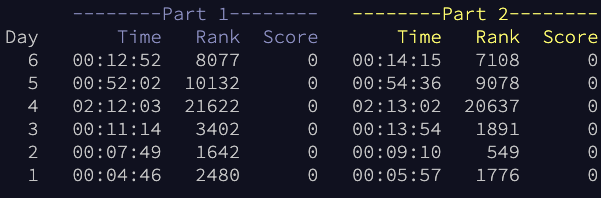
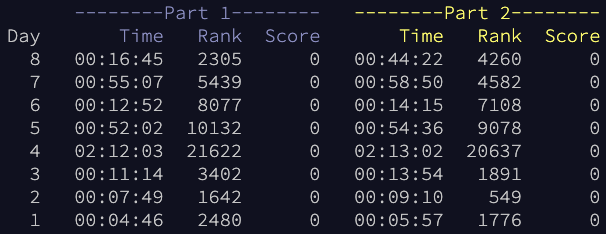
day 8

diff --git a/day07/day7.js b/day07/day7.js
@@ -1,0 +1,65 @@
+const path = require("path")
+
+// options should be {part: 1 | 2, input: string}
+function run(options) {
+    console.debug(`running ${path.basename(__filename)}, part ${options.part}`)
+    if (options.part == 1) {
+        const val = part1(options.input)
+        console.log(val)
+        return val
+    } else if (options.part == 2) {
+        const val = part2(options.input)
+        console.log(val)
+        return val
+    }
+}
+
+function part1(input) {
+    let files = {"/": []}
+    let cur_dir = ""
+    const str = input.trim().split('\n')
+    str.forEach(ln => {
+        if (ln.startsWith('$ cd')) {
+            switch (ln.slice(5, undefined)) {
+                case '/': {
+                    cur_dir = '/'
+                    break
+                }
+                case '..': {
+                    const d = cur_dir
+                        .slice(0, cur_dir.length - 1)
+                        .split('/')
+                    cur_dir = d.slice(0, d.length - 1).reduce(tot, cur => tot + "/" + cur, "") + "/"
+                    break
+                }
+                default: {
+                    cur_dir = cur_dir + "/" + ln.slice(5, undefined)
+                }
+            }
+            console.log_cur_dir
+        } else if (ln.startsWith('$ ls')) {
+            return
+        } else {
+            if (files[cur_dir] == undefined) {
+                files[cur_dir] = []
+            }
+            files[cur_dir].push(ln.split(' '))
+        }
+    })
+}
+
+function part2(input) {
+    str = input.trim()
+    let i = -1
+    const strArr = str.split('')
+    for (i = 13; i < strArr.length; i++) {
+        if (new Set(strArr.slice(i - 13, i+1)).size == 14) {
+            return i + 1
+        }
+    }
+    return i
+}
+
+module.exports = {
+    run
+}

diff --git a/day07/day7.test.js b/day07/day7.test.js
@@ -1,0 +1,18 @@
+const aoc = require('./day6')
+
+const input = `\
+mjqjpqmgbljsphdztnvjfqwrcgsmlb
+`
+const input2 = `\
+bvwbjplbgvbhsrlpgdmjqwftvncz
+`
+describe('day6', () => {
+    test('part1', () => {
+        expect(aoc.run({part: 1, input})).toStrictEqual(7)
+        expect(aoc.run({part: 1, input: input2})).toStrictEqual(5)
+    })
+    test('part2', () => {
+        expect(aoc.run({part: 2, input})).toStrictEqual(19)
+        expect(aoc.run({part: 2, input: input2})).toStrictEqual(23)
+    })
+})

diff --git a/day08/part2.py b/day08/part2.py
@@ -1,0 +1,81 @@
+from __future__ import annotations
+
+import argparse
+import os.path
+import math
+import pytest
+
+import support
+
+INPUT_TXT = os.path.join(os.path.dirname(__file__), 'input.txt')
+
+import numpy as np
+def compute(s: str) -> int:
+    visible = 0
+    rows = s.strip().split('\n')
+    size_x, size_y = len(rows[0]), len(rows)
+    coords = np.zeros((size_x, size_y))
+    for i, row in enumerate(rows):
+        for j, val in enumerate(row):
+            coords[i][j] = val
+    visible += size_x * 2  # outer rows
+    vis_coords = np.zeros((size_x, size_y))
+    for i, row in enumerate(rows):
+        for j, val in enumerate(row):
+            # looking up
+            visibility_scores = [0, 0, 0, 0]
+            for up in range(i - 1, -1, -1):
+                visibility_scores[0] += 1
+                if rows[up][j] >= val:
+                    break
+            for down in range(i + 1, size_y, 1):
+                visibility_scores[1] += 1
+                if rows[down][j] >= val:
+                    break
+            for left in range(j - 1, -1, -1):
+                visibility_scores[2] += 1
+                if row[left] >= val:
+                    break
+            for right in range(j + 1, size_x, 1):
+                visibility_scores[3] += 1
+                if row[right] >= val:
+                    break
+            if i == 0 or i == size_y - 1 or j == 0 or j == size_x - 1:
+                visibility_scores = [0,0]
+            vis_coords[i][j] = math.prod(visibility_scores)
+    return int(np.max(vis_coords))
+
+
+INPUT_S = '''\
+30373
+25512
+65332
+33549
+35390
+'''
+EXPECTED = 8
+
+
+@pytest.mark.parametrize(
+    ('input_s', 'expected'),
+    (
+        (INPUT_S, EXPECTED),
+    ),
+)
+def test(input_s: str, expected: int) -> None:
+    assert compute(input_s) == expected
+
+
+def main() -> int:
+    parser = argparse.ArgumentParser()
+    parser.add_argument('data_file', nargs='?', default=INPUT_TXT)
+    args = parser.parse_args()
+    # print(compute(INPUT_S))
+    with open(args.data_file) as f, support.timing():
+        print(compute(f.read()))
+
+    return 0
+
+
+if __name__ == '__main__':
+    raise SystemExit(main())

diff --git a/day08/part1.py b/day08/part1.py
@@ -1,0 +1,72 @@
+from __future__ import annotations
+
+import argparse
+import os.path
+
+import pytest
+
+import support
+
+INPUT_TXT = os.path.join(os.path.dirname(__file__), 'input.txt')
+
+import numpy as np
+def compute(s: str) -> int:
+    visible = 0
+    rows = s.strip().split('\n')
+    size_x, size_y = len(rows[0]), len(rows)
+    coords = np.zeros((size_x, size_y))
+    for i, row in enumerate(rows):
+        for j, val in enumerate(row):
+            coords[i][j] = val
+    visible += size_x * 2  # outer rows
+    for i, row in enumerate(rows):
+        if i == 0 or i == size_y - 1:
+            continue
+        visible += 2  # outer columns in inner rows
+        for j, val in enumerate(row):
+            if j == 0 or j == size_x - 1:
+                continue
+            # print(i, j, row, val)
+            if any([
+                all([val > col for col in row[:j]]),
+                all([val > col for col in row[j+1:]]),
+                all([val > r[j] for r in rows[:i]]),
+                all([val > r[j] for r in rows[i+1:]]),
+            ]):
+                visible += 1
+    return visible
+
+
+INPUT_S = '''\
+30373
+25512
+65332
+33549
+35390
+'''
+EXPECTED = 21
+
+
+@pytest.mark.parametrize(
+    ('input_s', 'expected'),
+    (
+        (INPUT_S, EXPECTED),
+    ),
+)
+def test(input_s: str, expected: int) -> None:
+    assert compute(input_s) == expected
+
+
+def main() -> int:
+    parser = argparse.ArgumentParser()
+    parser.add_argument('data_file', nargs='?', default=INPUT_TXT)
+    args = parser.parse_args()
+
+    with open(args.data_file) as f, support.timing():
+        print(compute(f.read()))
+
+    return 0
+
+
+if __name__ == '__main__':
+    raise SystemExit(main())
